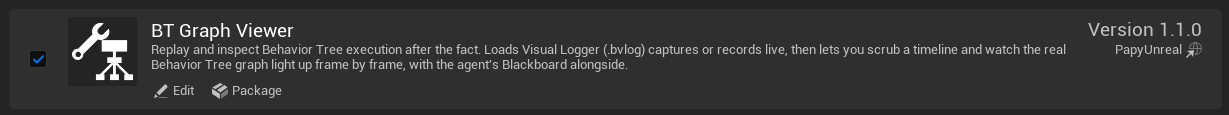
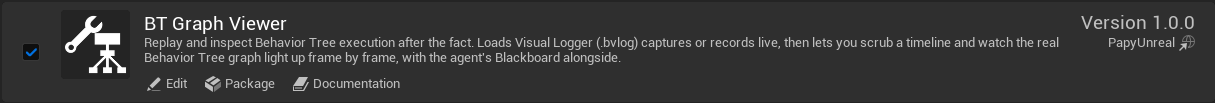
[UPDATE] - 1 Plugin to 2 Plugins
To avoid the ToolsetRegistry dependency, we need to separate it into 2 plugins

diff --git a/ai-toolset.md b/ai-toolset.md
@@ -6,17 +6,37 @@ order: 55
 
 # AI / MCP Toolset
 
-The plugin registers a **native Unreal Toolset**, so any AI client wired into Unreal's Toolset
-Registry (the engine's MCP server, or the in-editor AI assistant) can drive the viewer directly.
-Your AI client lists it as `BTGraphViewerToolset` among the available toolsets.
+The AI toolset is **BT Graph Viewer AI Toolset**, a separate optional plugin for BT Graph Viewer.
+It registers a **native Unreal Toolset**, so any AI client wired into Unreal's Toolset Registry (the
+engine's [MCP server](https://dev.epicgames.com/documentation/unreal-engine/unreal-mcp-in-unreal-editor){target="blank"}) can drive the viewer directly. Your AI client
+lists it as `BTGraphViewerToolset` among the available toolsets.
 
 Every call drives the same viewer window a human uses. There is no parallel code path, and all of it
 stays read-only with respect to your assets.
 
 !!!info Optional
-The toolset lives in its own module (`BTGraphViewerAI`) and the viewer has no dependency on it. If
-you never enable AI tooling, nothing changes.
+BT Graph Viewer has no dependency on this plugin and works the same without it. If you never use AI
+tooling, you can ignore it.
 !!!
+
+## Requirements
+
+| | |
+|---|---|
+| Plugins | **BT Graph Viewer** and the engine's **Toolset Registry** |
+| Engine | Unreal Engine 5.8 |
+| Status | Experimental, disabled by default |
+
+Toolset Registry is an experimental plugin that ships with the engine and is disabled by default.
+Enabling the AI toolset turns it on for you.
+
+## Enabling it
+
+1. Install BT Graph Viewer first (see [Getting Started](getting-started.md)).
+2. Open **Edit → Plugins**, find **BT Graph Viewer AI Toolset** under **Tools** and enable it.
+3. Accept the prompt to also enable the plugins it depends on, then restart the editor.
+
+![BT Graph Viewer AI Toolset in the Plugins window](static/images/bgv_ai_plugin.png)
 
 Typical loop: `LoadCapture` → `SelectAgent` → `SetFrame` → `GetViewerState`. That is enough for an
 assistant to walk a capture and explain why an agent did what it did.

diff --git a/changelog.md b/changelog.md
@@ -18,5 +18,5 @@ First release. Unreal Engine 5.8.
 - Optional [Gameplay Debugger sync](gameplay-debugger-sync.md).
 - Plain-text frame dump (**T**) with clipboard copy.
 - Details tab values can be copied with **right-click → Copy**.
-- Drivable from an AI assistant through Unreal's native Toolset Registry: seven tools (`OpenViewer`, `LoadCapture`, `ListAgents`, `SelectAgent`, `SetFrame`, `GetFrameInfo`, `GetViewerState`) exposed as `BTGraphViewerToolset`, in a separate optional module. See [AI / MCP Toolset](ai-toolset.md).
+- Drivable from an AI assistant through Unreal's native Toolset Registry: seven tools (`OpenViewer`, `LoadCapture`, `ListAgents`, `SelectAgent`, `SetFrame`, `GetFrameInfo`, `GetViewerState`) exposed as `BTGraphViewerToolset`, in a separate optional plugin (**BT Graph Viewer AI Toolset**). See [AI / MCP Toolset](ai-toolset.md).
 - Strictly read-only: displayed Behavior Tree assets are never modified or dirtied.

diff --git a/getting-started.md b/getting-started.md
@@ -49,4 +49,6 @@ Via the Visual Logger window:
 3. Press **Stop**. Every agent that ran a Behavior Tree appears in the **Agents** list.
 4. Click an agent, then drag on the timeline. The graph lights up frame by frame.
 
+Want an AI assistant to drive the viewer? That is a separate optional plugin: see [AI / MCP Toolset](ai-toolset.md).
+
 Next: [Recording & Loading](recording-and-loading.md) and [Interface](interface/index.md).
